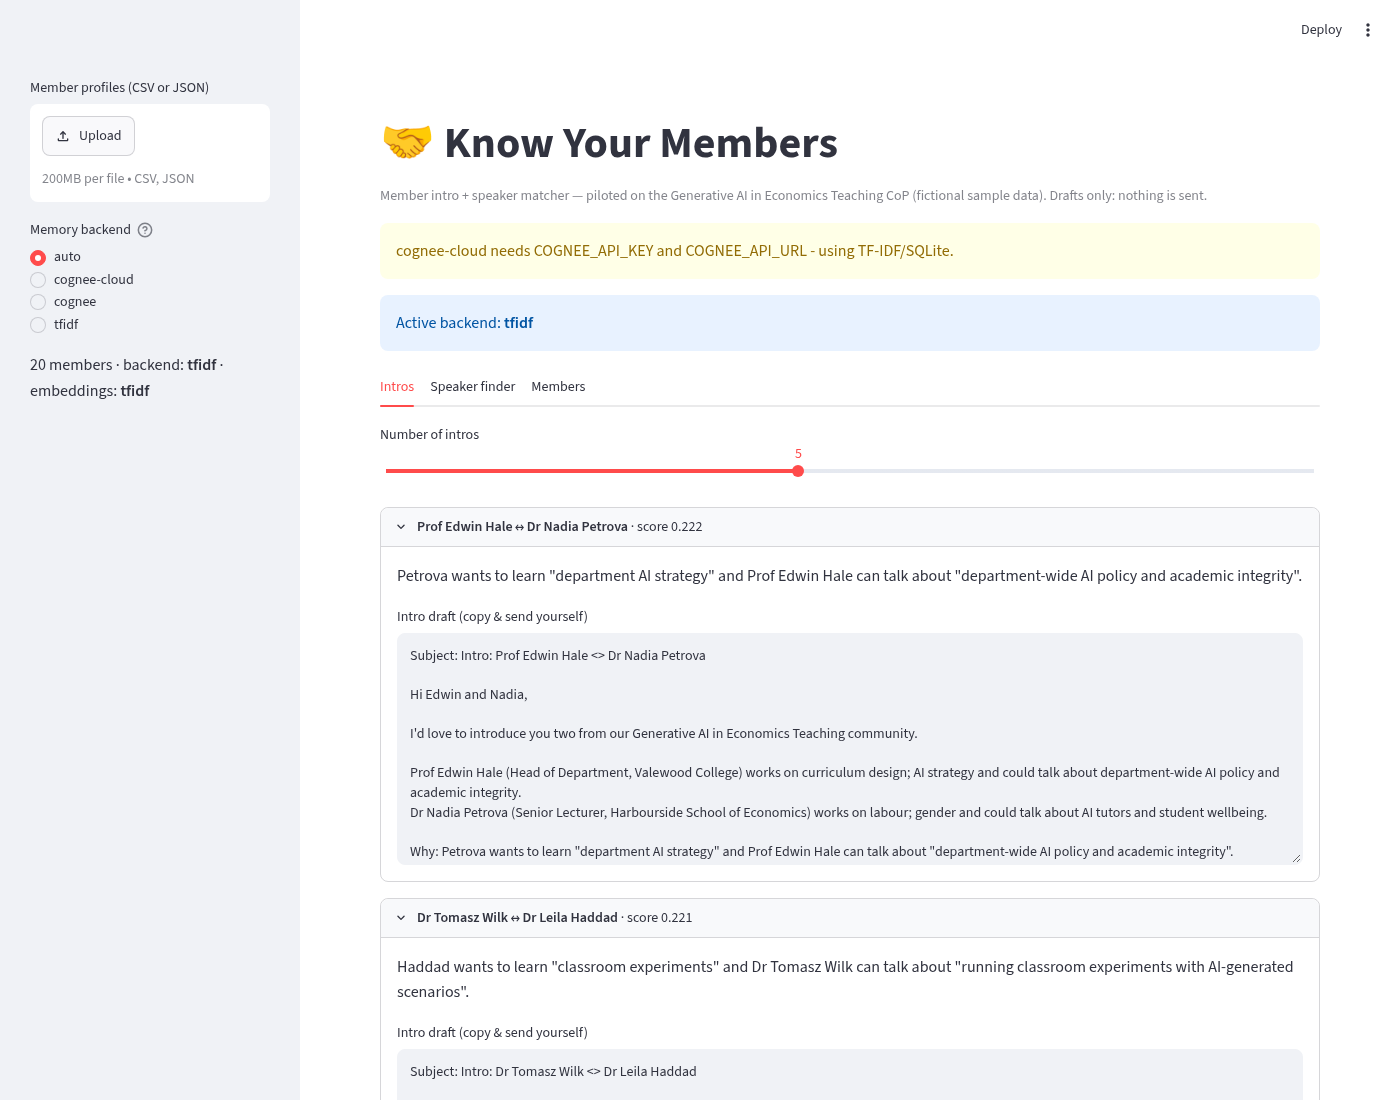
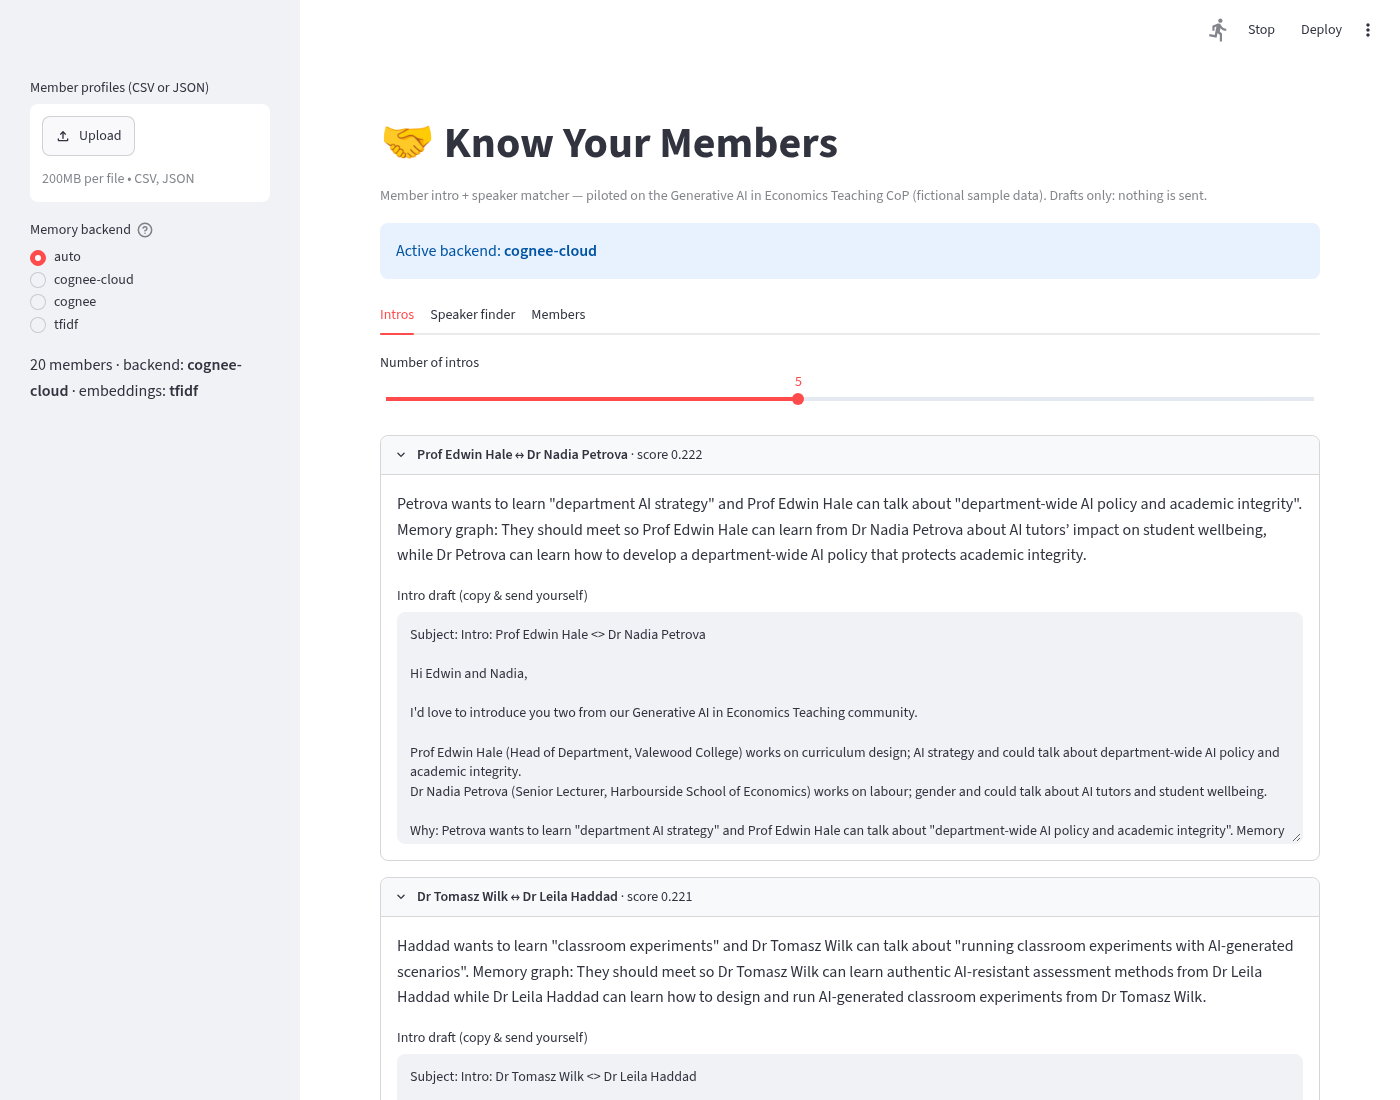
cognee-cloud: normalise unicode in recall answers, use graph reasons for speakers, cache cloud calls in UI

Changed region(s): [[0.2764, 0.2782, 0.9214, 0.9891], [0.2764, 0.2164, 0.6757, 0.2473], [0.0307, 0.3091, 0.1536, 0.3709]]

diff --git a/kym/core.py b/kym/core.py
@@ -118,11 +118,15 @@ f"Why: {reason}\n\nWould a 20-minute coffee chat in the next couple of weeks wor
         q=self.e([theme])[0]; s=self.offer@q; idx=list(np.argsort(-s)[:k])
         if self.backend.startswith("cognee"):
             try:
-                hits,ans=self.cb.rank_speakers(self.m,theme,k)
+                hits,extra=self.cb.rank_speakers(self.m,theme,k)
                 if hits:
                     idx=(hits+[i for i in idx if i not in hits])[:k]
-                    return [{"name":self.m[i]["name"],"institution":self.m[i]["institution"],"score":round(float(s[i]),3),
-                             "reason":(f"{self.backend} graph pick #{n+1}. " if i in hits else "TF-IDF fill. ")+f"Can talk about \"{self.m[i]['can_talk_about']}\"."} for n,i in enumerate(idx)]
+                    def why(i,n):
+                        base=f"Can talk about \"{self.m[i]['can_talk_about']}\"."
+                        if i not in hits: return "TF-IDF fill. "+base
+                        r=extra.get(i) if isinstance(extra,dict) else None
+                        return f"{self.backend} graph pick #{n+1}: {r}" if r else f"{self.backend} graph pick #{n+1}. {base}"
+                    return [{"name":self.m[i]["name"],"institution":self.m[i]["institution"],"score":round(float(s[i]),3),"reason":why(i,n)} for n,i in enumerate(idx)]
             except Exception: pass
         return [{"name":self.m[i]["name"],"institution":self.m[i]["institution"],"score":round(float(s[i]),3),
                  "reason":llm(f"In one sentence, why is this person a good speaker for a seminar on '{theme}'? {self.m[i]}") or f"Can talk about \"{self.m[i]['can_talk_about']}\"; teaches {self.m[i]['teaching_topics']}."} for i in idx]

diff --git a/kym/cognee_cloud.py b/kym/cognee_cloud.py
@@ -34,10 +34,28 @@ def recall(query):
 def check():
     recall("ping"); return True
 
+import re, unicodedata
+def norm(t):
+    """Cloud answers use narrow no-break spaces, ** markdown, and non-ASCII dashes; normalise them."""
+    t = unicodedata.normalize("NFKC", t).replace("*", "")
+    t = re.sub(r"[\u2010-\u2015]", "-", t)
+    return re.sub(r"\s+", " ", t)
+
 def rank_speakers(members, theme, k):
+    """Return (ordered member indices, {index: cloud reason})."""
     ans = recall(f"Who could speak on {theme}? List full names, best first, with one reason each.")
-    pos = {i: ans.find(m["name"]) for i, m in enumerate(members)}
-    return sorted([i for i, p in pos.items() if p >= 0], key=lambda i: pos[i])[:k], ans
+    lines = [norm(l) for l in ans.splitlines() if l.strip()]
+    flat = norm(ans); pos = {i: flat.find(norm(m["name"])) for i, m in enumerate(members)}
+    hits = sorted([i for i, p in pos.items() if p >= 0], key=lambda i: pos[i])[:k]
+    reasons = {}
+    for i in hits:
+        n = norm(members[i]["name"])
+        for l in lines:
+            if n in l:
+                r = l.split(n, 1)[1].strip(" -:,.\u2013")
+                if r: reasons[i] = r[0].upper() + r[1:]
+                break
+    return hits, reasons
 
 def pair_context(a, b):
-    return recall(f"Why should {a['name']} and {b['name']} meet, and what could each learn from the other? One sentence.")
+    return norm(recall(f"Why should {a['name']} and {b['name']} meet, and what could each learn from the other? One sentence."))

diff --git a/app.py b/app.py
@@ -16,14 +16,19 @@ m=get(path,up.name if up else "",be)
 if m.backend_note: st.warning(m.backend_note)
 st.info(f"Active backend: **{m.backend}**")
 st.sidebar.write(f"{len(m.m)} members · backend: **{m.backend}** · embeddings: **{m.e.mode}**")
+@st.cache_data(show_spinner="Asking member memory...")
+def intros(_m,key,k): return _m.intros(k)
+@st.cache_data(show_spinner="Asking member memory...")
+def speakers(_m,key,th,k): return _m.speakers(th,k)
+key=(path,be,m.backend)
 t1,t2,t3=st.tabs(["Intros","Speaker finder","Members"])
 with t1:
     k=st.slider("Number of intros",1,10,5)
-    for x in m.intros(k):
+    for x in intros(m,key,k):
         with st.expander(f"**{x['a']}  ↔  {x['b']}**  · score {x['score']}",expanded=True):
             st.write(x["reason"]); st.text_area("Intro draft (copy & send yourself)",x["draft"],height=260,key=x['a']+x['b'])
 with t2:
     th=st.text_input("Seminar theme","AI and assessment integrity")
-    for n,x in enumerate(m.speakers(th,st.slider("Shortlist size",1,10,5)),1):
+    for n,x in enumerate(speakers(m,key,th,st.slider("Shortlist size",1,10,5)),1):
         st.markdown(f"**{n}. {x['name']}** — {x['institution']} · {x['score']}  \n{x['reason']}")
 with t3: st.dataframe(m.m,use_container_width=True)
